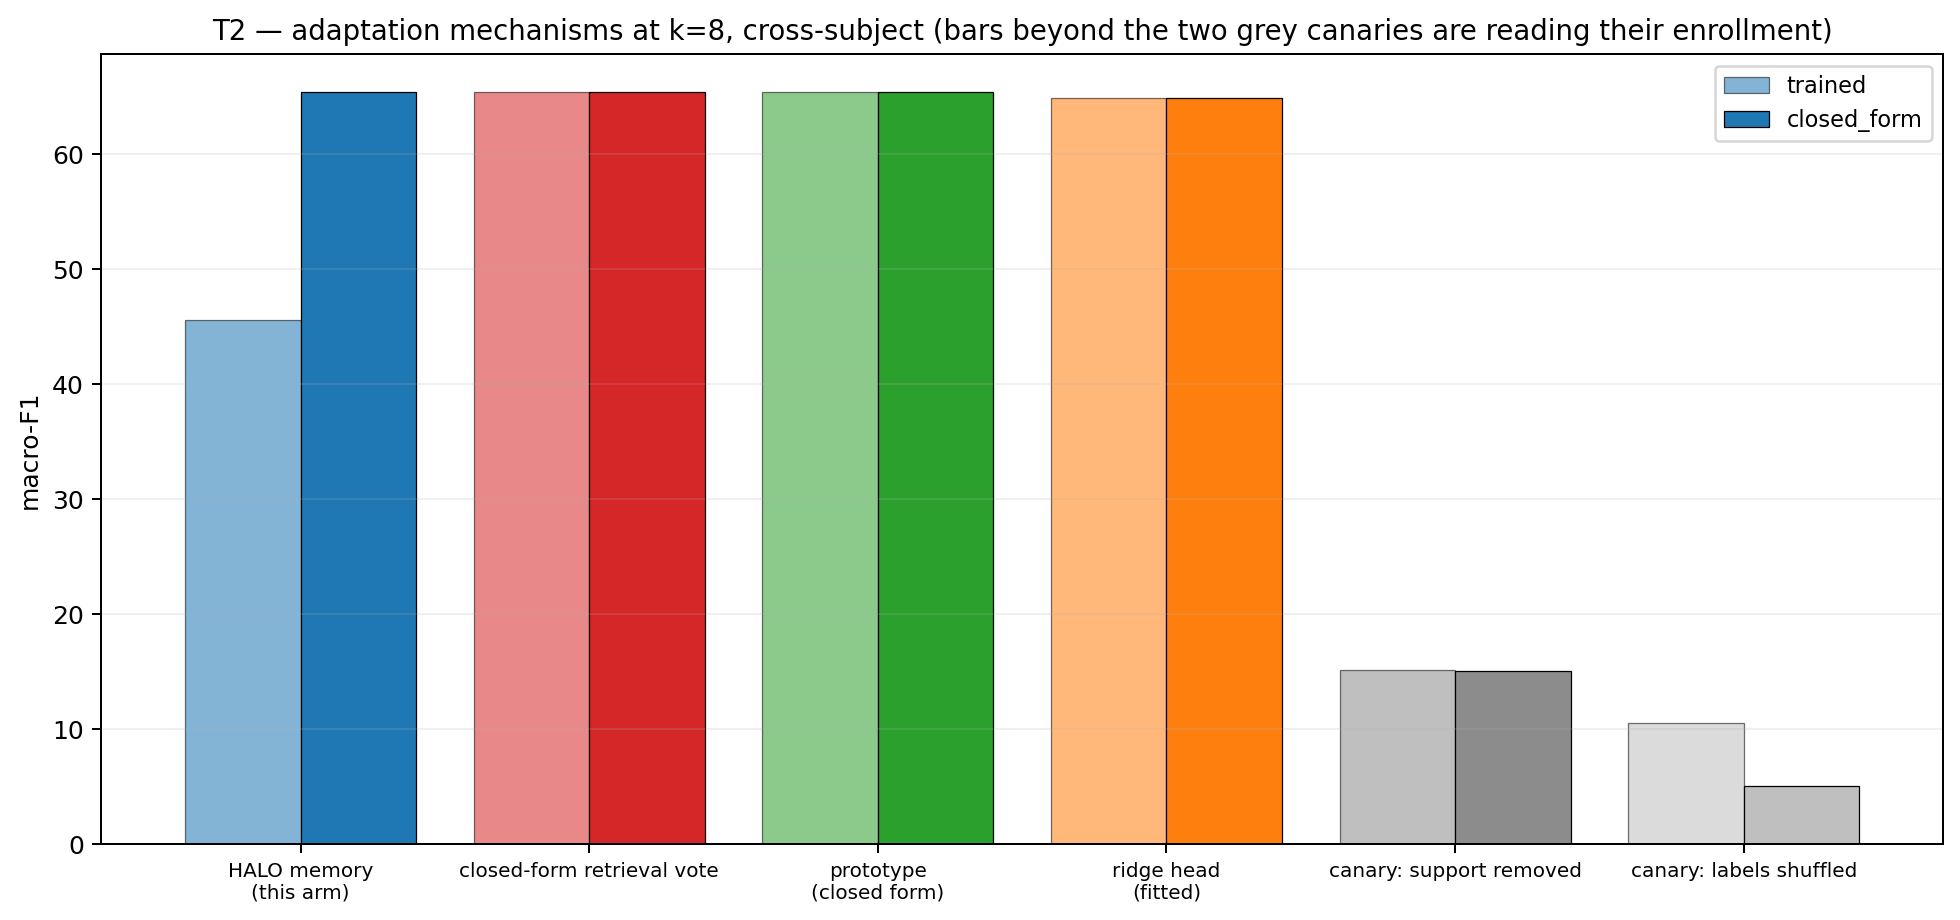
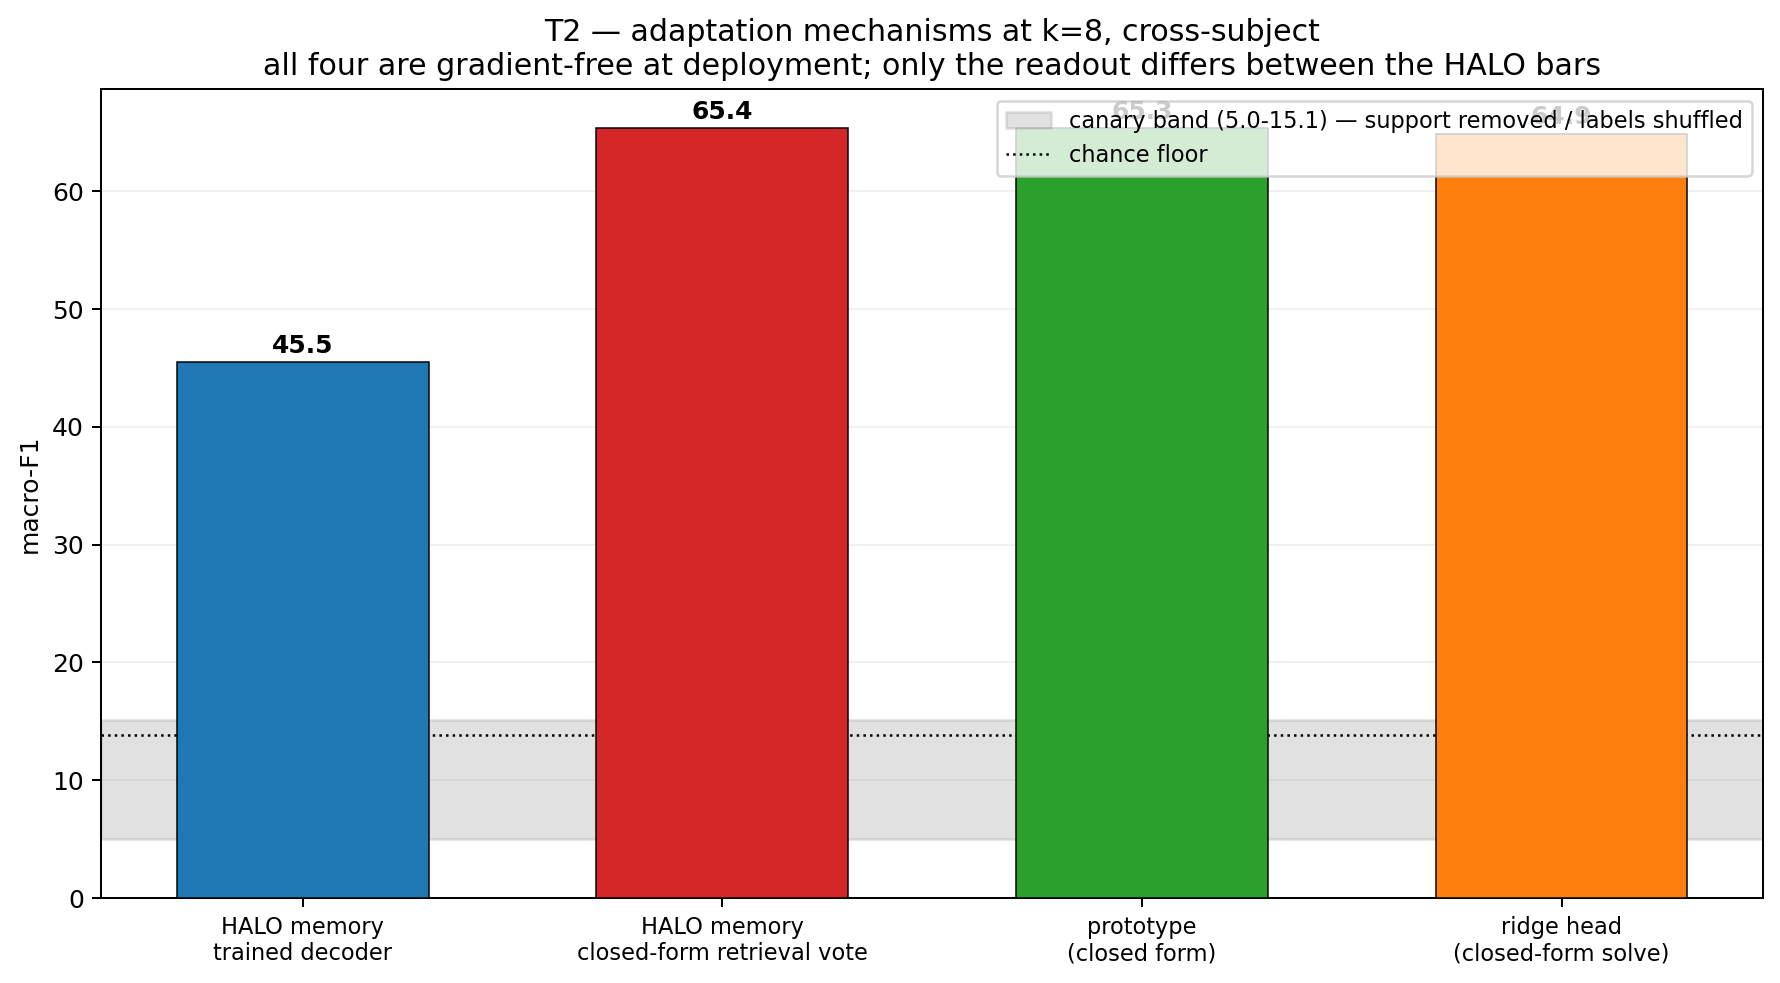
Redraw T2/T3 as single legible panels
The two-panel layout duplicated prototype, ridge and the retrieval vote across both
arms, because those comparators are fitted from the same support rows and do not
depend on which readout HALO uses. Only the HALO readout genuinely differs. T2 also
had hue encoding mechanism while alpha encoded arm, which is two scales fighting.

Both are now one panel with one line or bar per mechanism. The four canary series
(two per arm) collapse into a single shaded band, since the point they make is
'every real method is far above these', not their individual values. Chance floor
drawn explicitly so 'above chance' is on the page rather than inferred.

Claude-Session: https://claude.ai/code/session_019gX5G5bAyPnp6MqN5Vfc7A

diff --git a/training/evidence/plot_results_artifacts.py b/training/evidence/plot_results_artifacts.py
@@ -68,32 +68,65 @@ def curve(cells: dict, field: str, *, subject_relation: str, shape: str = "full"
     return {k: num / den for k, (num, den) in sorted(totals.items()) if den}
 
 
+def method_lines(arms: dict[str, dict], *, subject_relation: str) -> tuple[list, dict]:
+    """The four real methods as one flat list, plus the canary envelope.
+
+    Only ONE thing differs between the two arms: which path reads the retrieved evidence. The
+    prototype and ridge comparators are fitted from the same support rows and are byte-identical
+    across arms, so drawing them once per arm was pure duplication. The canaries DO differ per arm
+    (they are scored through that arm's readout) but all of them sit far below every real method, so
+    they are drawn as one shaded band rather than four more lines nobody can tell apart.
+    """
+    trained, closed = arms.get("trained", {}), arms.get("closed_form", {})
+    lines = [
+        ("HALO memory — trained decoder", "#1f77b4",
+         curve(trained, "f1_macro", subject_relation=subject_relation)),
+        ("HALO memory — closed-form retrieval vote", "#d62728",
+         curve(closed, "f1_macro", subject_relation=subject_relation)
+         or curve(trained, "identity_f1_macro", subject_relation=subject_relation)),
+        ("prototype (closed form)", "#2ca02c",
+         curve(trained, "prototype_f1_macro", subject_relation=subject_relation)),
+        ("ridge head (closed-form solve)", "#ff7f0e",
+         curve(trained, "ridge_head_f1_macro", subject_relation=subject_relation)),
+    ]
+    canaries = []
+    for cells in (trained, closed):
+        for field in ("support_removed_f1_macro", "support_label_shuffled_f1_macro"):
+            points = curve(cells, field, subject_relation=subject_relation)
+            if points:
+                canaries.append(points)
+    return lines, canaries
+
+
+def _draw_canary_band(ax, canaries, ks) -> None:
+    if not canaries:
+        return
+    lo = [min(c.get(k, float("inf")) for c in canaries) for k in ks]
+    hi = [max(c.get(k, float("-inf")) for c in canaries) for k in ks]
+    ax.fill_between(ks, lo, hi, color="#9e9e9e", alpha=0.30, zorder=0,
+                    label="canary band — support removed / labels shuffled")
+
+
 def plot_t3(arms: dict[str, dict], out: Path) -> Path:
-    """T3 — label efficiency. x = k, y = macro-F1, one line per (encoder, mechanism)."""
-    fig, axes = plt.subplots(1, len(arms), figsize=(6.4 * len(arms), 5.0), sharey=True,
-                             squeeze=False)
-    for ax, (arm, cells) in zip(axes[0], arms.items()):
-        for field, label, colour, style, width in SERIES:
-            points = curve(cells, field, subject_relation="cross_subject")
-            if not points:
-                continue
-            # In the closed_form arm the readout IS the retrieval vote, so those two series
-            # coincide exactly. Draw the arm's own readout wider and semi-transparent underneath
-            # so the overlap reads as "identical by construction" rather than "line missing".
-            arm_readout = field == "f1_macro"
-            ax.plot(list(points), list(points.values()), style, color=colour,
-                    linewidth=width + 2.5 if arm_readout else width,
-                    alpha=0.45 if arm_readout else 1.0, zorder=1 if arm_readout else 2,
-                    marker="o" if style == "-" else None, markersize=4, label=label)
-        ax.set_title(f"{arm} — cross-subject enrollment", fontsize=11)
-        ax.set_xlabel("enrolled windows per candidate (k)")
-        ax.grid(alpha=0.25, linewidth=0.6)
-        ax.set_xticks(sorted({k for c in arms.values() for k in curve(c, "f1_macro",
-                                                                     subject_relation="cross_subject")}))
-    axes[0][0].set_ylabel("macro-F1")
-    axes[0][-1].legend(fontsize=8, loc="lower right", framealpha=0.95)
-    fig.suptitle("T3 — label efficiency: adaptation per enrolled example (dev roster, "
-                 "query-weighted)", fontsize=12)
+    """T3 — label efficiency. One panel: x = k, y = macro-F1, one line per mechanism."""
+    fig, ax = plt.subplots(figsize=(9.5, 6.0))
+    lines, canaries = method_lines(arms, subject_relation="cross_subject")
+    ks = sorted({k for _, _, points in lines for k in points})
+    for label, colour, points in lines:
+        if not points:
+            continue
+        ax.plot(list(points), list(points.values()), "-o", color=colour, linewidth=2.2,
+                markersize=5, label=label, zorder=3)
+    _draw_canary_band(ax, canaries, ks)
+    ax.axhline(13.8, color="black", linestyle=":", linewidth=1,
+               label="chance floor (100/C, query-weighted)")
+    ax.set_xticks(ks)
+    ax.set_xlabel("enrolled windows per candidate (k)")
+    ax.set_ylabel("macro-F1")
+    ax.set_title("T3 — label efficiency: how much one enrolled example buys\n"
+                 "cross-subject, dev roster, query-weighted", fontsize=12)
+    ax.grid(alpha=0.25, linewidth=0.6)
+    ax.legend(fontsize=9, loc="lower right", framealpha=0.95)
     fig.tight_layout()
     fig.savefig(out, dpi=180, bbox_inches="tight")
     plt.close(fig)
@@ -101,30 +134,32 @@ def plot_t3(arms: dict[str, dict], out: Path) -> Path:
 
 
 def plot_t2(arms: dict[str, dict], out: Path, *, at_k: int = 8) -> Path:
-    """T2 — mechanism comparison at one budget, each mechanism beside its canaries."""
-    labels, groups = [], []
-    for arm, cells in arms.items():
-        values = []
-        for field, label, *_ in SERIES:
-            points = curve(cells, field, subject_relation="cross_subject")
-            values.append(points.get(at_k, float("nan")))
-        groups.append(values)
-        labels.append(arm)
+    """T2 — one bar per mechanism at a single budget, against the canary band."""
+    lines, canaries = method_lines(arms, subject_relation="cross_subject")
+    names = [label for label, _, points in lines if points.get(at_k) is not None]
+    values = [points[at_k] for _, _, points in lines if points.get(at_k) is not None]
+    colours = [colour for _, colour, points in lines if points.get(at_k) is not None]
 
-    fig, ax = plt.subplots(figsize=(11, 5.2))
-    width = 0.8 / max(len(groups), 1)
-    x = np.arange(len(SERIES))
-    for index, (arm, values) in enumerate(zip(labels, groups)):
-        ax.bar(x + index * width, values, width, label=arm,
-               color=[s[2] for s in SERIES], alpha=0.55 + 0.45 * index,
-               edgecolor="black", linewidth=0.5)
-    ax.set_xticks(x + width * (len(groups) - 1) / 2)
-    ax.set_xticklabels([s[1].replace(" (", "\n(") for s in SERIES], fontsize=8)
+    fig, ax = plt.subplots(figsize=(10, 5.6))
+    bars = ax.bar(range(len(values)), values, 0.6, color=colours, edgecolor="black",
+                  linewidth=0.6, zorder=3)
+    for bar, value in zip(bars, values):
+        ax.text(bar.get_x() + bar.get_width() / 2, value + 0.8, f"{value:.1f}",
+                ha="center", fontsize=10, fontweight="bold")
+    if canaries:
+        lo = min(c.get(at_k, float("inf")) for c in canaries)
+        hi = max(c.get(at_k, float("-inf")) for c in canaries)
+        ax.axhspan(lo, hi, color="#9e9e9e", alpha=0.30, zorder=0,
+                   label=f"canary band ({lo:.1f}-{hi:.1f}) — support removed / labels shuffled")
+    ax.axhline(13.8, color="black", linestyle=":", linewidth=1, label="chance floor")
+    ax.set_xticks(range(len(names)))
+    ax.set_xticklabels([n.replace(" — ", "\n").replace(" (", "\n(") for n in names], fontsize=9)
     ax.set_ylabel("macro-F1")
-    ax.set_title(f"T2 — adaptation mechanisms at k={at_k}, cross-subject "
-                 f"(bars beyond the two grey canaries are reading their enrollment)", fontsize=11)
+    ax.set_title(f"T2 — adaptation mechanisms at k={at_k}, cross-subject\n"
+                 "all four are gradient-free at deployment; only the readout differs "
+                 "between the HALO bars", fontsize=12)
     ax.grid(axis="y", alpha=0.25, linewidth=0.6)
-    ax.legend(fontsize=9)
+    ax.legend(fontsize=9, loc="upper right")
     fig.tight_layout()
     fig.savefig(out, dpi=180, bbox_inches="tight")
     plt.close(fig)
